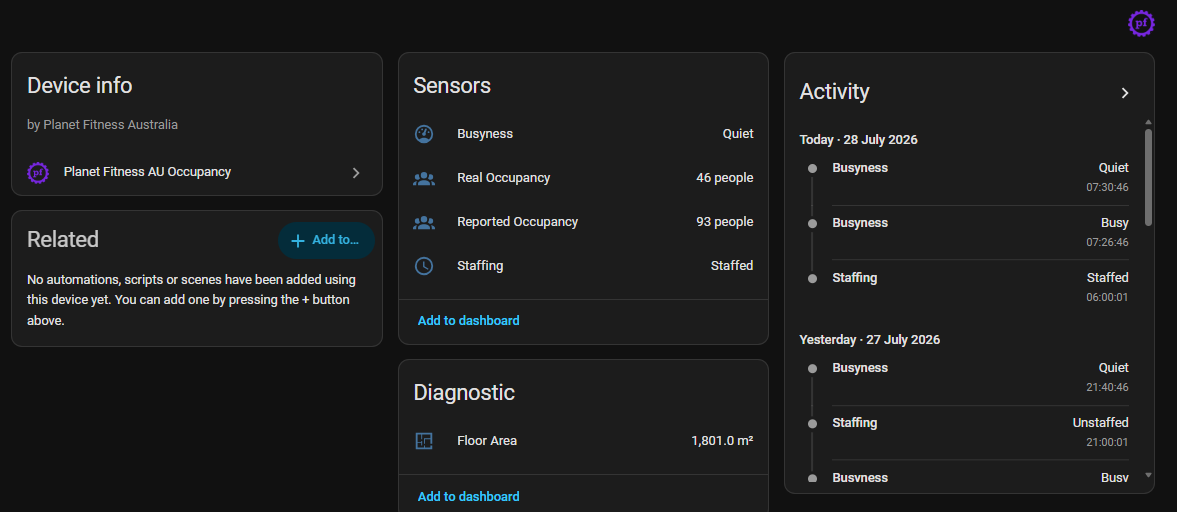
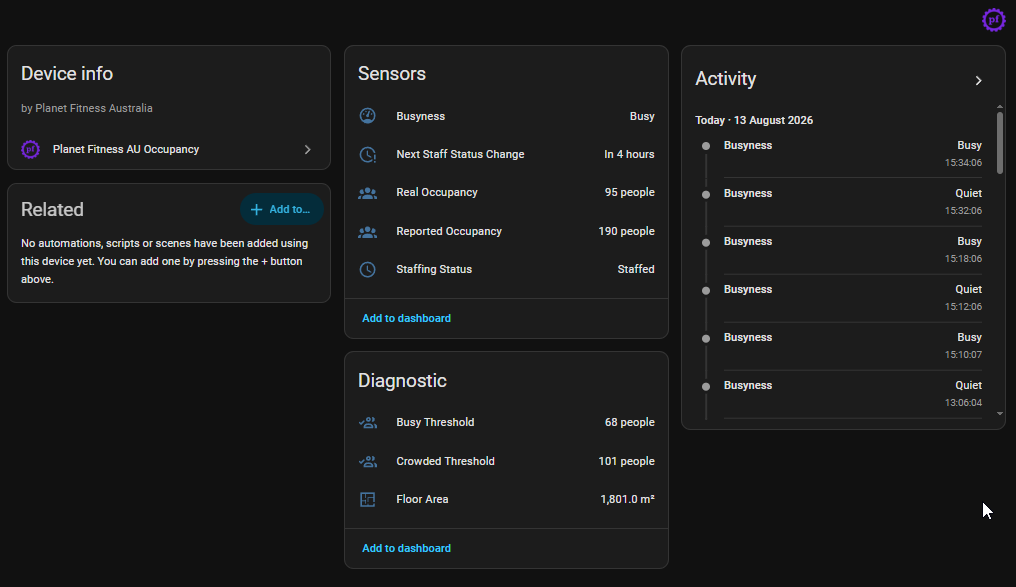
updated pictures, updated readme, prepare for first proper release

diff --git a/README.md b/README.md
@@ -31,15 +31,31 @@ Once set up, the integration's Options (a menu, reached the same way) let you tu
 
 <img src="https://raw.githubusercontent.com/dancmorgan/pfau-occupancy-ha/main/docs/overrideclubnumbers.png" width="400">
 
-## Reported vs Real occupancy
+# What you get
 
-Each club gets eight sensors.
+Each discovered club is its own Device (Settings → Devices & Services → Planet Fitness AU Occupancy), grouping its eight sensors under one card instead of a flat entity list. Since a device is created per club, first setup (or any time a new club appears) prompts Home Assistant's usual "N new devices found" review - worth it for the grouping.
 
-**Reported Occupancy** is the number the Planet Fitness portal shows which is based on member checkins. Planet Fitness does not have any check out mechanism so PF relies on a static two hour timer to decrement the occupancy counter. This creates situations where members leave the gym after 45 mins but are considered still within the gym for another 1 hour 15 mins.
+Per club:
+## Sensors
+| Entity | Type | Notes |
+| --- | --- | --- |
+| Reported Occupancy | number | the number the Planet Fitness portal shows which is based on member checkins. Planet Fitness does not have any check out mechanism so PF relies on a static two hour timer to decrement the occupancy counter. This creates situations where members leave the gym after 45 mins but are considered still within the gym for another 1 hour 15 mins. |
+| Real Occupancy | number | corrects this based on real counts and observations over time (albeit at a specific gym. Yours may differ and so the reduction % is provided as a configurable option). The results of the real occupancy counts have identified that the occupancy counter is on average 210% overstating gym occupancy and so the default reduction of the real occupancy sensor has been set to 50%. Its worth noting that given the way occupancy is reported via the API, theres very little ability to do authentic time tracking or analysis or heuristic based results. |
+| Busyness | category | human friendly category displaying "how the gym feels" (eg. Quiet, Busy, and Crowded) based on density configurations measured against 36m2 square (6x6 meters around you). Defaults are Quiet = less than 1.8 people, Busy more than 1.8 people, Crowded more than 2.5 people. |
+| Staffing Status | boolean | provides an indication as to whether staff are in the gym or not. This is specifically important if you have a query or if you are a black card member who wishes to use the spa. |
+| Next Staff Status Change | timestamp | describes the timestamp when staff will either arrive or leave. Set an automation 30 minutes before it to catch the last of the black card spa amenities before staff leave (useful on weekends, when they tend to leave earlier). |
+## Diagnostic
+| Entity | Type | Notes |
+| --- | --- | --- |
+| Floor Area | number | A simple passthrough value that shows you the club's square meter area as reported by the Planet Fitness website. It is raw and not altered (busyness dead-space subtraction is not applied.) |
+| Busy Threshold | number | A simple calculated number based on specified thresholds on when the gym is considered busy (either based on default values or your own) |
+| Crowded Threshold | number | A simple calculated number based on specified thresholds on when the gym is considered crowded (either based on default values or your own) |
 
-**Real Occupancy** corrects this based on real counts and observations over time (albeit at a specific gym. Yours may differ and so the reduction % is provided as a configurable option). The results of the real occupancy counts have identified that the occupancy counter is on average 210% overstating gym occupancy and so the default reduction of the real occupancy sensor has been set to 50%. Its worth noting that given the way occupancy is reported via the API, theres very little ability to do authentic time tracking or analysis or heuristic based results.
+Clubs are discovered automatically on each poll; a club that disappears from a response (e.g. renamed) goes `unavailable` rather than being deleted, since the API exposes no stable club ID other than the (slugified) name.
 
-**Busyness** provides a more useful metric than Real or Reported Occupancy as it divides **Real Occupancy** by `area_sqm` and bands the result to give you a more useful "does the gym feel busy right now" category. Density rather than occupancy is what makes clubs comparable - 60 people in a 1,600 m²
+## Busyness and Density
+
+Busyness provides a more useful metric than Real or Reported Occupancy as it divides **Real Occupancy** by `area_sqm` and bands the result to give you a more useful "does the gym feel busy right now" category. Density rather than occupancy is what makes clubs comparable - 60 people in a 1,600 m²
 warehouse is quiet, the same 60 in a 400 m² studio is extremely busy.
 
 Before dividing, 33% of `area_sqm` is subtracted as dead space - walkways, corridors, and the footprint of the racks and machines themselves, none of which is room a member can actually stand in. 
@@ -48,47 +64,13 @@ Before dividing, 33% of `area_sqm` is subtracted as dead space - walkways, corri
 
 Since these categories are subjective, they're fully user-configurable: set them generally in the integration's Options, or override just one club (Options → "Override a club's threshold") if it consistently feels busier or quieter than the general setting suggests. Leave both fields blank on that per-club form to remove the override again.
 
-**Staffing Status** provides an indication as to whether staff are in the gym or not. This is specifically important if you have a query or if you are a black card member who wishes to use the spa.
-
-**Next Staff Status Change** is its own sensor rather than a Staffing Status attribute, so it can be used directly as an automation trigger or a `before`/`after` condition - pulling a timestamp out of another entity's attributes needs a template sensor in between, a dedicated sensor doesn't. It's specifically the next staffed -> unstaffed or unstaffed -> staffed flip, in either direction - the club opening or closing for the day doesn't count, only staff actually arriving or leaving does. Set an automation 30 minutes before it to catch the last of the spa amenities before staff leave (useful on weekends, when they tend to leave earlier).
-
-**Floor Area** is provied as a static figure, pulled from each club's website and is used to calculate density. Not configurable.
-
-**Busy Threshold** and **Crowded Threshold** simply provide the numeric values of the club's calculated busy and crowded thresholds.
-
-# Club List
+## Club List
 
 The portal's occupancy endpoint returns a club's name, address, current count and capacity limit - and nothing else. Opening hours and floor size aren't in it, or anywhere else in the API, so they come from [`clubs.yaml`](custom_components/pfau_occupancy/clubs.yaml) - pre-seeded with every AU club at the time of publishing. Until a club has an entry there, its Staffing, Floor Area, Busyness and threshold sensors report `unavailable`; the two occupancy sensors don't depend on it and work regardless.
 
 If a new club opens or an existing club closes, please raise an issue or pull request for inclusion.
 
 `clubs.yaml` is **refetched from this repo** by the running integration on restart and every 24 hours, so a correction or a newly-added club reaches everyone without waiting for the next release. If GitHub is unreachable when the integration starts, it falls back to the last successfully fetched copy (cached in your Home Assistant config directory), and if there's no cache yet either, to whatever version shipped with your installed release.
-
-## What you get
-
-Each discovered club is its own Device (Settings → Devices & Services → Planet Fitness AU Occupancy), grouping its eight sensors under one card instead of a flat entity list. Since a device is created per club, first setup (or any time a new club appears) prompts Home Assistant's usual "N new devices found" review - worth it for the grouping.
-
-Per club:
-
-| Entity | State | Notes |
-| --- | --- | --- |
-| `sensor.<club>_reported_occupancy` | count | Attributes: address, limit, percent full |
-| `sensor.<club>_real_occupancy` | count | Attributes: raw count, reduction % |
-| `sensor.<club>_staffing` | `staffed` / `unstaffed` / `closed` | Attributes: today's and tomorrow's staffed windows, timezone |
-| `sensor.<club>_next_staffing_change` | timestamp | Next staffed <-> unstaffed flip, either direction (opening/closing doesn't count) |
-| `sensor.<club>_floor_area` | m² | Diagnostic |
-| `sensor.<club>_busyness` | `quiet` / `busy` / `crowded` | Attributes: people/36m², m²/person, thresholds in force (as densities and as headcounts) |
-| `sensor.<club>_busy_threshold` | count | Diagnostic. Headcount at which this club tips into `busy` |
-| `sensor.<club>_crowded_threshold` | count | Diagnostic. Headcount at which this club tips into `crowded` |
-
-Staffing Status and Next Staff Status Change both follow the clock rather
-than the poll: each schedules its own update for the next moment its value
-would go stale, so they flip at 9am sharp instead of whenever the next poll
-lands.
-
-Clubs are discovered automatically on each poll; a club that disappears from a
-response (e.g. renamed) goes `unavailable` rather than being deleted, since the
-API exposes no stable club ID other than the (slugified) name.
 
 ## Disclaimer
 
